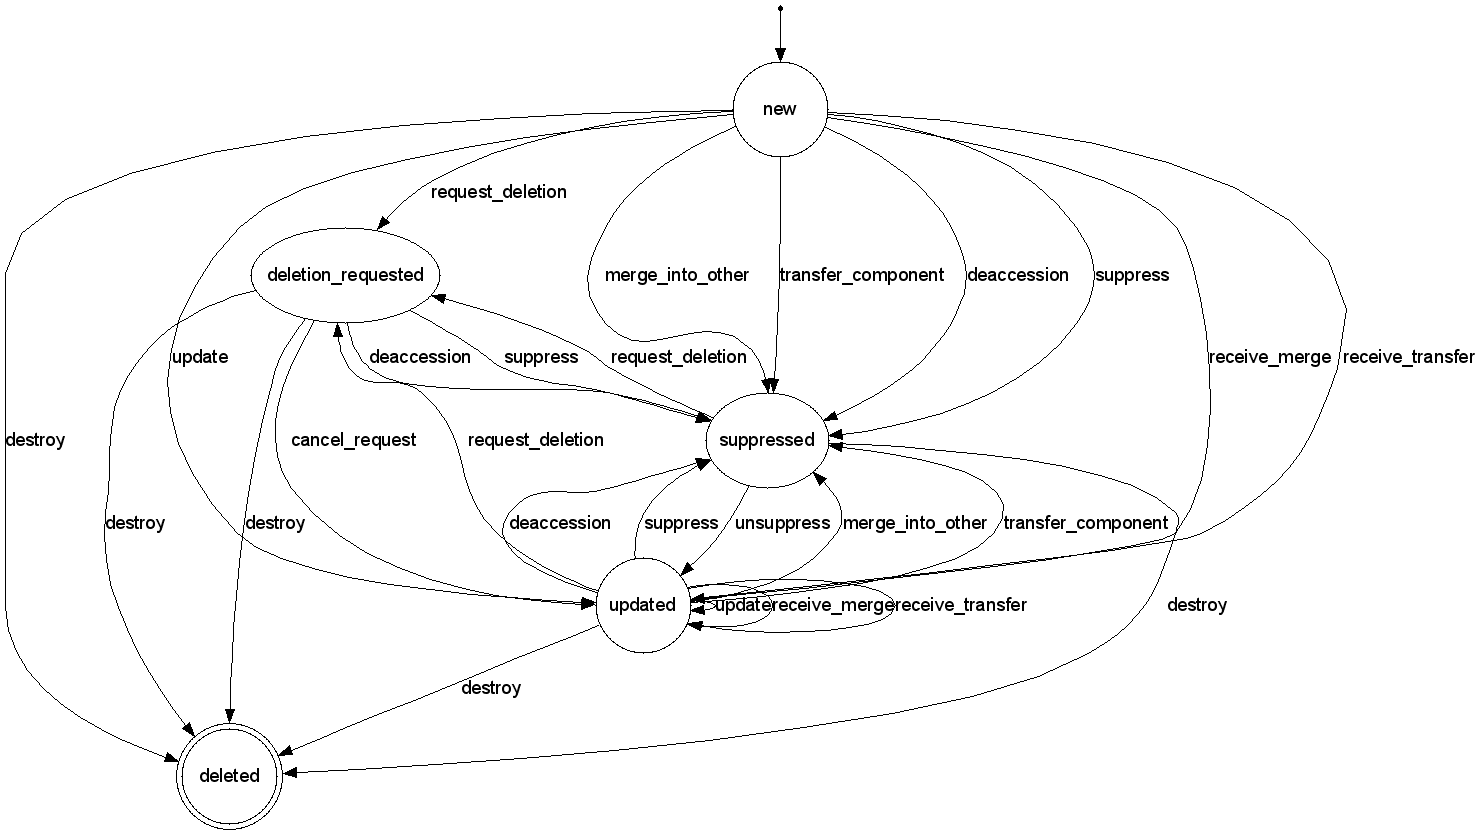
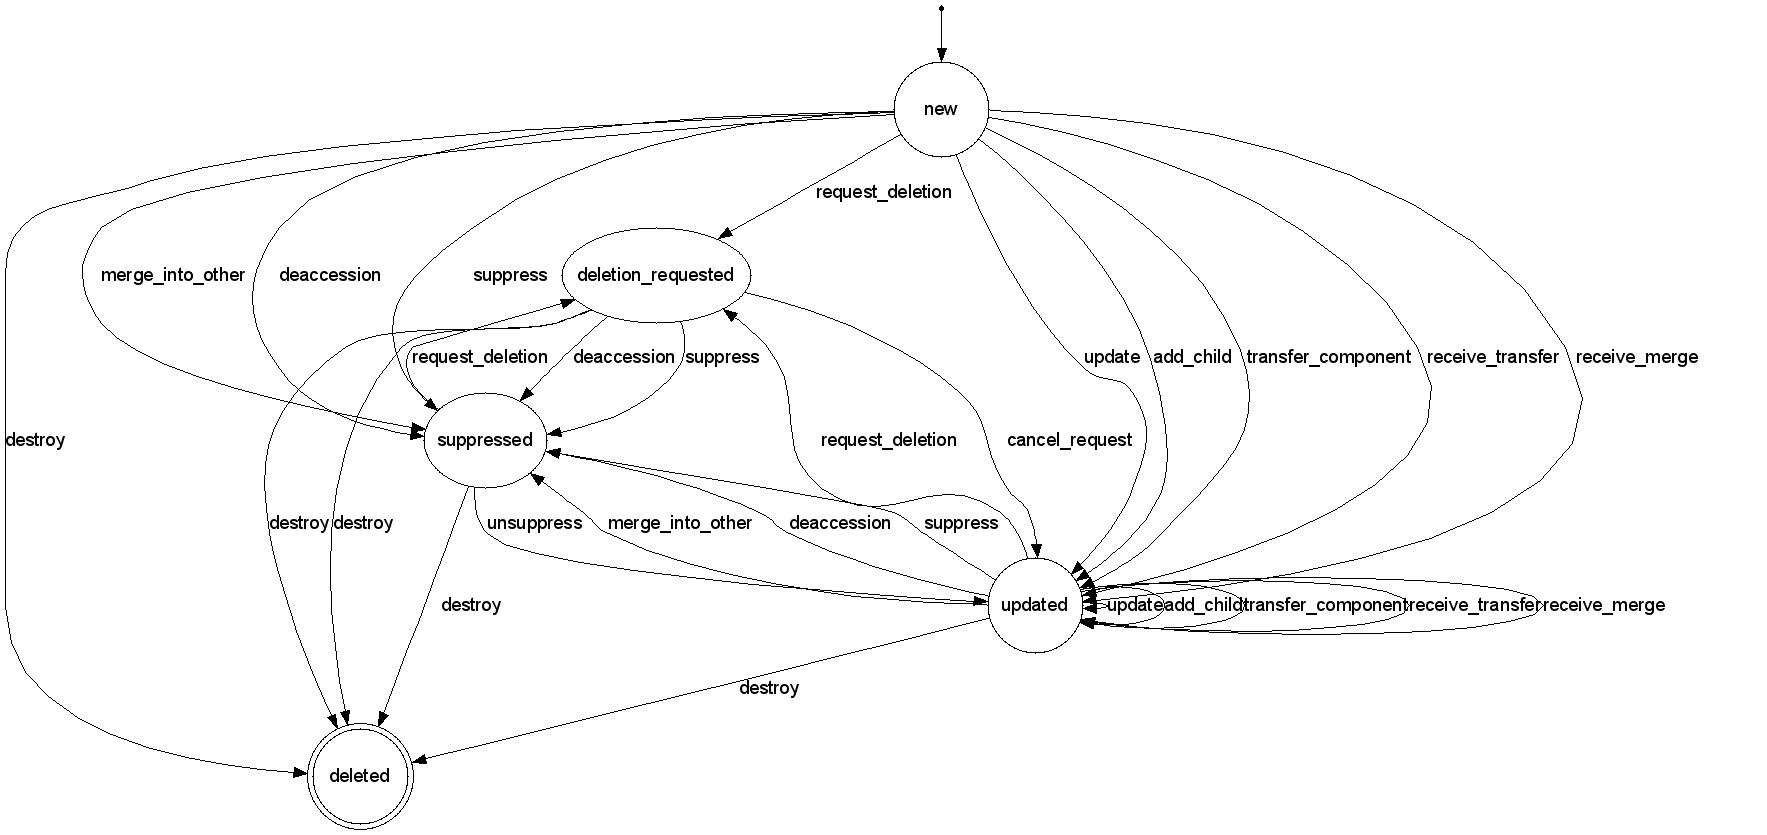
Add HierarchicalArchivalObject. Also, R/RCs can only merge/transfer.

diff --git a/archival_object.rb b/archival_object.rb
@@ -47,26 +47,14 @@ class ArchivalObject
   end
 end
 
-class MergeableArchivalObject < ArchivalObject
+class HierarchicalArchivalObject < ArchivalObject
   
   state_machine :initial => :new do
     
-    event :merge_into_other do
-      transition [:new, :updated] => :suppressed
-    end
-    
-    event :receive_merge do
+    event :add_child do
       transition [:new, :updated] => :updated
     end
-  
-    event :transfer_component do
-      transition [:new, :updated] => :suppressed
-    end
     
-    event :receive_transfer do
-      transition [:new, :updated] => :updated
-    end
-  
   end
     
 end
@@ -75,10 +63,28 @@ class Accession < ArchivalObject
   state_machine :initial => :new 
 end
 
-class Resource < MergeableArchivalObject
-  state_machine :initial => :new
+class Resource < HierarchicalArchivalObject
+
+  state_machine :initial => :new do
+    event :transfer_component do
+      transition [:new, :updated] => :updated
+    end
+    
+    event :receive_transfer do
+      transition [:new, :updated] => :updated
+    end
+    
+    event :merge_into_other do
+      transition [:new, :updated] => :suppressed
+    end
+    
+    event :receive_merge do
+      transition [:new, :updated] => :updated
+    end
+  end
+  
 end 
 
-class DigitalObject < MergeableArchivalObject
+class DigitalObject < HierarchicalArchivalObject
   state_machine :initial => :new
 end
